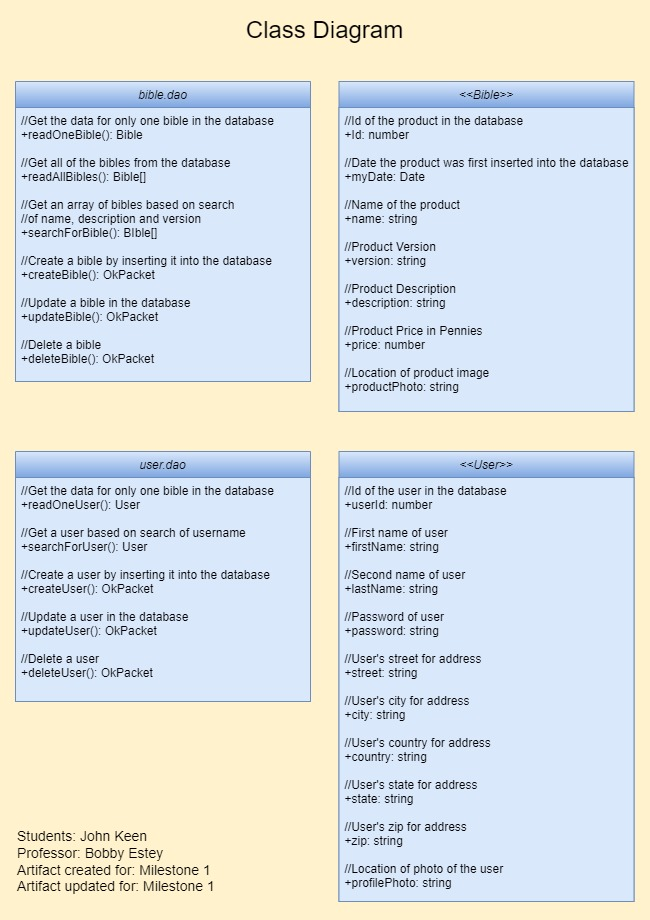
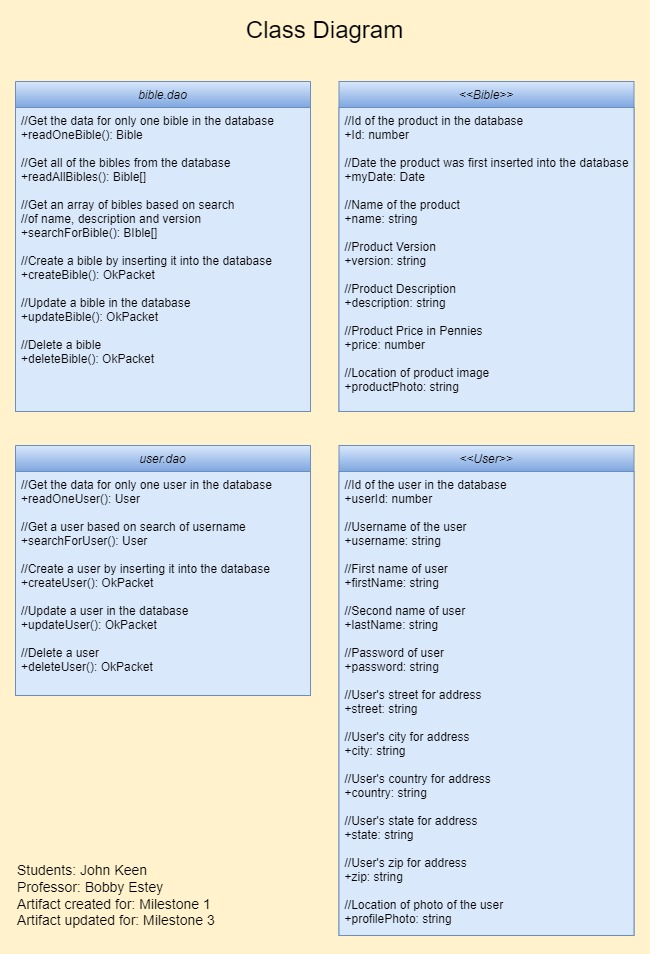
Milestone 3 updates.

Changed region(s): [[0.0, 0.0304, 0.9846, 0.9739], [0.0308, 0.8826, 0.3385, 0.9739]]

diff --git a/README.md b/README.md
@@ -15,7 +15,8 @@ BOTTOM LINE: FANTASTIC SIR - I AM SO PUMPED UP with what you posted. KEEP DOING 
 # Outline of Feedback Addressed
 
 Thank you for your support and encouragement.  I added a section entitled "Introduction to REST API" so that I could clearly outline
-the API.  I will continue to refine this document as the application is being developed as you have suggested.
+the API. I have also added the "Design Updates" section of this document.
+I will continue to refine this document as the application is being developed as you have suggested.
 
 Thank you and God bless you.
 
@@ -45,8 +46,97 @@ This is not a task that Saint Peter alone should carry and we should all try to 
 >
 
 ---
+# Design Updates
+
+The API was changed very little.  The username member was added to the "user" interface and the changes are now reflected
+in the ER diagram for the database and the class diagram.  The users database may be updated in the future to reflect the users relation to the company (i.e. Customer or Mangager).
+
+|                                      Updates                                       |                            Purpose                             |
+|:----------------------------------------------------------------------------------:|:--------------------------------------------------------------:|
+| username was added to the users relation<br/>of the database and to the interface. | Allow for the possability to look up a user by their username. |
+
+
+---
 # Introduction to REST API
 
+There are really two sets of routes for this API.  The first set of routes is the bible routes for Creating, Reading, Updating and Deleting bibles in the database.
+Then there are the users routes which are for Creating, Reading, Updating and Deleting a user of the site in the database.
+
+### Bibles Routes
+
+##### Route: GET /bibles
+##### DAO method: +readAllBibles(): Bible[]
+##### Purpose: Get all of the bibles from the database
+
+![readAllBibles](./Diagrams/Milestone3-BiblesAPI-readAllBibles.jpg)
+
+##### Route: GET /bibles?Id=2
+##### DAO method: +readOneBible(): Bible
+##### Purpose: Get the data for only one bible in the database
+
+![readOneBible](./Diagrams/Milestone3-BiblesAPI-readOneBible2.jpg)
+
+##### Route: GET /bibles/:bible
+##### DAO method: +readOneBible(): Bible
+##### Purpose: Get the data for only one bible in the database without using a URI string
+
+![readOneBible](./Diagrams/Milestone3-BiblesAPI-readOneBible.jpg)
+
+##### Route: GET /bibles/search/:search
+##### DAO method: +searchForBible(): BIble[]
+##### Purpose: Get an array of bibles based on search of name, description and version
+
+![searchForBible](./Diagrams/Milestone3-BiblesAPI-searchForBible.jpg)
+
+##### Route: POST /bibles
+##### DAO method: +createBible(): OkPacket
+##### Purpose: Create a bible by inserting it into the database
+
+![createBible](./Diagrams/Milestone3-BiblesAPI-createBible.jpg)
+
+##### Route: PUT /bibles
+##### DAO method: +updateBible(): OkPacket
+##### Purpose: Update a bible in the database
+
+![updateBible](./Diagrams/Milestone3-BiblesAPI-updateBible.jpg)
+
+##### Route: DELETE /bibles/:bibleId
+##### DAO method: +deleteBible(): OkPacket
+##### Purpose: Delete a bible
+
+![deleteBible](./Diagrams/Milestone3-BiblesAPI-deleteBible.jpg)
+
+### Users Routes
+
+##### Route: GET /users/:userId
+##### DAO method: +readOneUser(): User
+##### Purpose: Get the data for only one user in the database
+
+![readOneUser](./Diagrams/Milestone3-UsersAPI-readOneUser.jpg)
+
+##### Route: GET /users/:searchTerm
+##### DAO method: +searchForUser(): User
+##### Purpose: Get a user based on search of username
+
+![searchForUser](./Diagrams/Milestone3-UsersAPI-searchForUser.jpg)
+
+##### Route: POST /users
+##### DAO method: +createUser(): OkPacket
+##### Purpose: Create a user by inserting it into the database
+
+![createUser](./Diagrams/Milestone3-UsersAPI-createUser.jpg)
+
+##### Route: PUT /users
+##### DAO method: +updateUser(): OkPacket
+##### Purpose: Update a user in the database
+
+![updateUser](./Diagrams/Milestone3-UsersAPI-updateUser.jpg)
+
+##### Route: DELETE /users/:userId
+##### DAO method: +deleteUser(): OkPacket
+##### Purpose: Delete a user
+
+![deleteUser](./Diagrams/Milestone3-UsersAPI-deleteUser.jpg)
 
 ---
 
